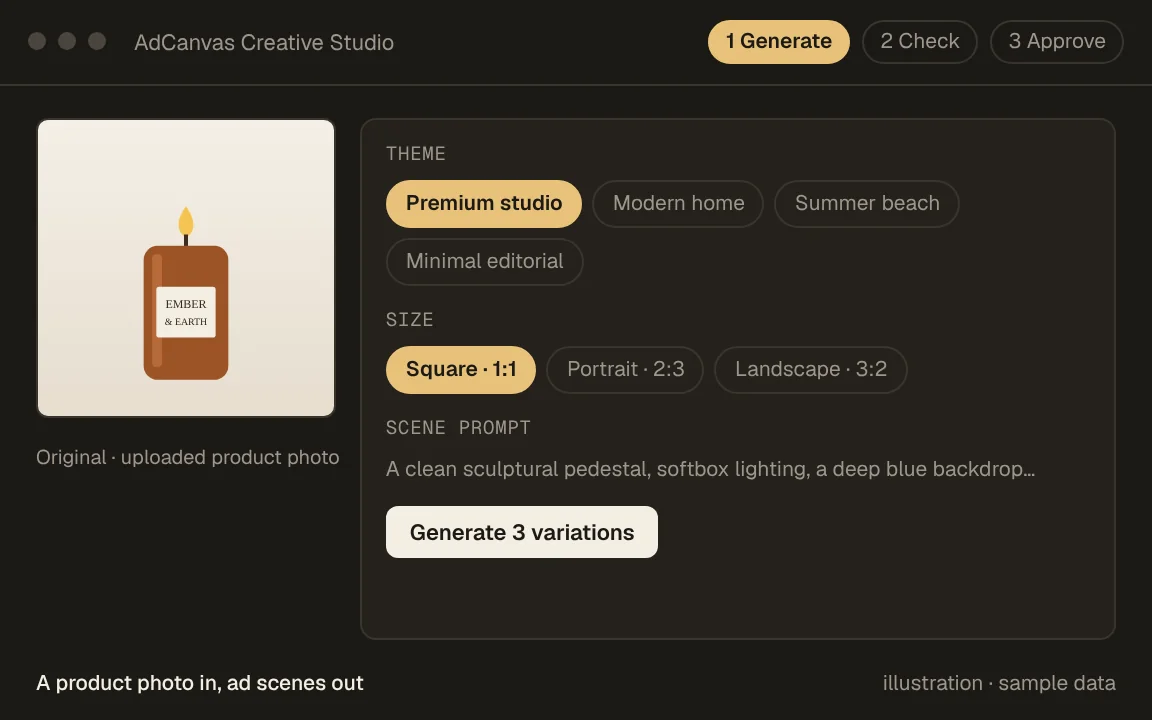
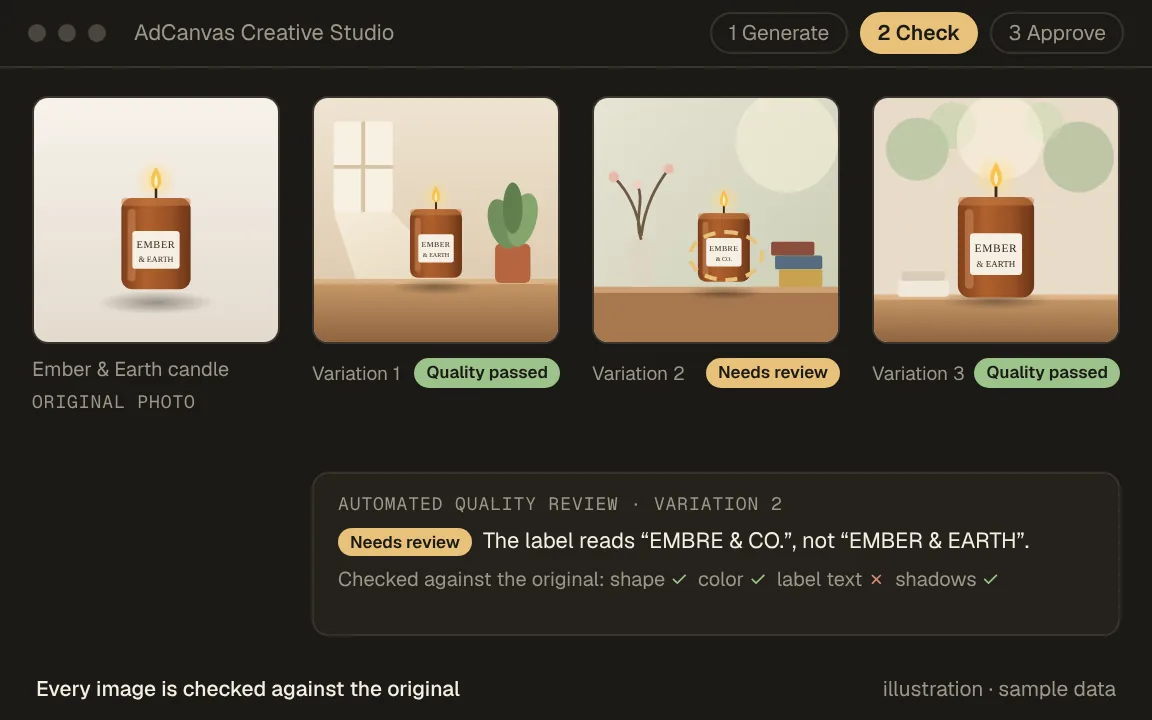
AdCanvas: a smoother, more accurate demo animation
The demo is now one continuous animation instead of three slides:
pick the Modern home theme and generate three variations, watch each
scanned against the original (two pass, one needs review because its
label changed), then approve two and reject one, with downloads
unlocking only for the approved ones and an approval history. It
follows the real app: one theme with several variations per run, and
its labels for progress, quality results and approvals.

Browsers get an animated WebP (20 fps, 517 KB); the GIF (10 fps) is
the fallback. The still, used for reduced motion and the Home card,
is the check step. Updates the alt text and README.

Claude-Session: https://claude.ai/code/session_01JzbtkytaMBowCsF1ek95wq

diff --git a/projects/index.html b/projects/index.html
@@ -52,7 +52,8 @@
       <figure class="demo">
         <picture>
           <source media="(prefers-reduced-motion: reduce)" srcset="../adcanvas-demo-still.webp">
-          <img src="../adcanvas-demo.gif" width="1152" height="720" loading="lazy" alt="Three-step illustrated demo of AdCanvas Creative Studio with sample data. 1, Generate: a candle product photo with a theme such as Premium studio and a size such as Square 1:1. 2, Check: an automated review compares a generated scene with the original and marks it Needs review because the product label has changed. 3, Approve: two approved scenes can be downloaded; the rejected one stays locked.">
+          <source type="image/webp" srcset="../adcanvas-demo.webp">
+          <img src="../adcanvas-demo.gif" width="1152" height="720" loading="lazy" alt="Animated, illustrated demo of AdCanvas Creative Studio with sample data. 1, Generate: for a photo of an Ember and Earth candle, the Modern home theme is picked and three variations are generated. 2, Check: each image is scanned against the original. Two pass; variation 2 needs review because its label reads EMBRE and CO. instead of EMBER and EARTH. 3, Approve: versions 1 and 3 are approved and can be downloaded; version 2 is rejected and its download stays locked.">
         </picture>
         <figcaption class="mono">Illustrated demo with sample data: generate, check, approve</figcaption>
       </figure>

diff --git a/README.md b/README.md
@@ -29,7 +29,8 @@ Home uses Geist for text and Newsreader, a serif, only for the name in the hero.
 - `shot-hey-mama-*`, `shot-tagalong-*` and `shot-campaign-lab-*` are screenshots of those three live apps on the Projects page. Each comes as 600px and 1200px WebP plus a 1200×750 JPEG fallback (16:10).
 - `threads-agent-loop.gif` is the looping three-step demo of the growth agent (Look, Queue, Approve) on the Agents page, 1152×720, built from illustrative slides with sample data. Visitors whose device asks for reduced motion see `threads-agent-loop-still.webp`, the first slide, instead. `threads-agent-queue.webp`, the Queue slide, is the Threads Agent's card image on Home.
 - `eval-agent-still.webp` is an illustration of the Eval Agent's plan step, with sample data, on the Agents page and as its card on Home.
-- `decision-log-demo.gif` (Read, Ask why, Share) and `adcanvas-demo.gif` (Generate, Check, Approve) are the same kind of three-step demo, on the Agents and Projects pages respectively, each with a `-still.webp` for reduced motion. Decision Log uses the sample note from its README; AdCanvas uses the app's real theme names, sizes and review labels with drawn product images.
+- `decision-log-demo.gif` (Read, Ask why, Share) is a three-step demo on the Agents page, with a `-still.webp` for reduced motion; it uses the sample note from its README.
+- The AdCanvas demo on Projects is a continuous animation of one generation: pick the Modern home theme and generate three variations, check each against the original (variation 2's label changed), then approve two and reject one. Browsers get `adcanvas-demo.webp` (smooth, smaller); `adcanvas-demo.gif` is the fallback, and `adcanvas-demo-still.webp` (the check step) is for reduced motion and the Home card. It uses the app's real theme names, settings and review labels, with drawn product images.
 - `photo-1200.jpg` is the 1200×800 image shown when the site is shared on social media or in messages.
 
 ## Visitor counts
